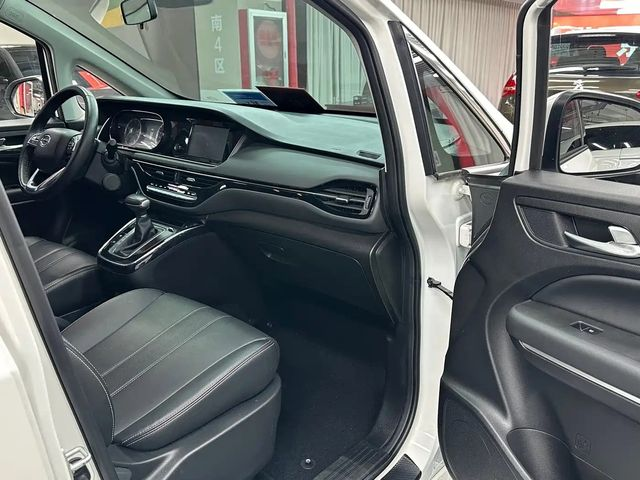
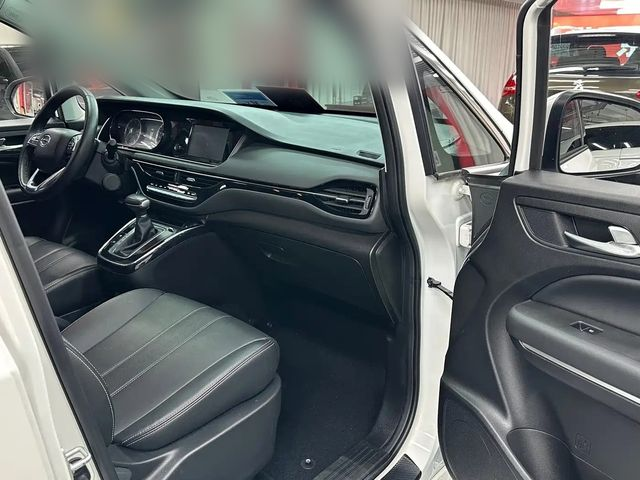
Размыты вывески, названия и телефоны продавцов на фото машин и страниц фото (Юрий 16.11.2026, «Авто» 16.11); new/sign_blur.py — то же для новых фото при сборке и выкладке

Changed region(s): [[0.0312, 0.0, 0.6562, 0.2188], [0.2188, 0.0938, 0.25, 0.125]]

diff --git a/foto.py b/foto.py
@@ -42,6 +42,17 @@ SITES = {
 }
 
 
+def signs(f):
+    """Размыть вывески, названия и телефоны продавцов на фото (Юрий 16.11.2026; sign_blur.py сайта МТК). Без OCR — фото как есть."""
+    try:
+        sys.path.insert(0, str(ROOT.parent / "mtk-vostok-avto.ru" / "new"))
+        import sign_blur
+        return sign_blur.clean(f)
+    except Exception as e:  # noqa: BLE001
+        print("  размытие вывесок:", f, e)
+        return []
+
+
 def build(code, site="yurazol.ru"):
     cfg = SITES[site]
     if not re.fullmatch(r"[a-z0-9]+(-[a-z0-9]+)*", code):
@@ -65,6 +76,8 @@ def build(code, site="yurazol.ru"):
             im.save(out / f"{n}.jpg", quality=86, optimize=True, progressive=True)
         else:   # уже в пределах — копируем как есть, без пережатия (метаданные снимаем)
             Image.open(f).save(out / f"{n}.jpg", quality="keep", optimize=True, progressive=True, exif=b"")
+        if signs(out / f"{n}.jpg"):
+            im = Image.open(out / f"{n}.jpg").convert("RGB")
         th = im.copy()
         th.thumbnail((640, 640), Image.LANCZOS)
         th.save(out / "t" / f"{n}.jpg", quality=80, optimize=True, progressive=True)
